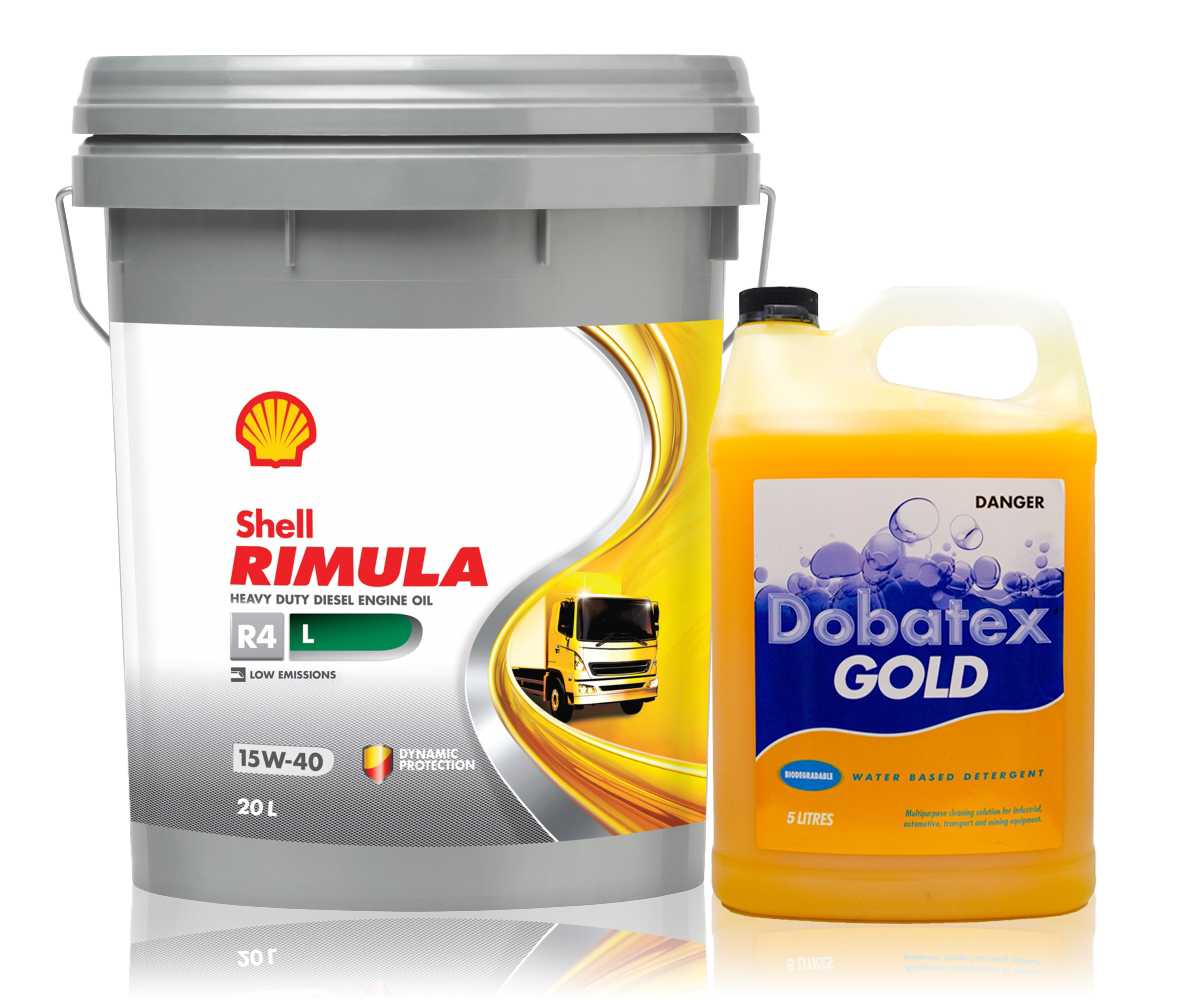
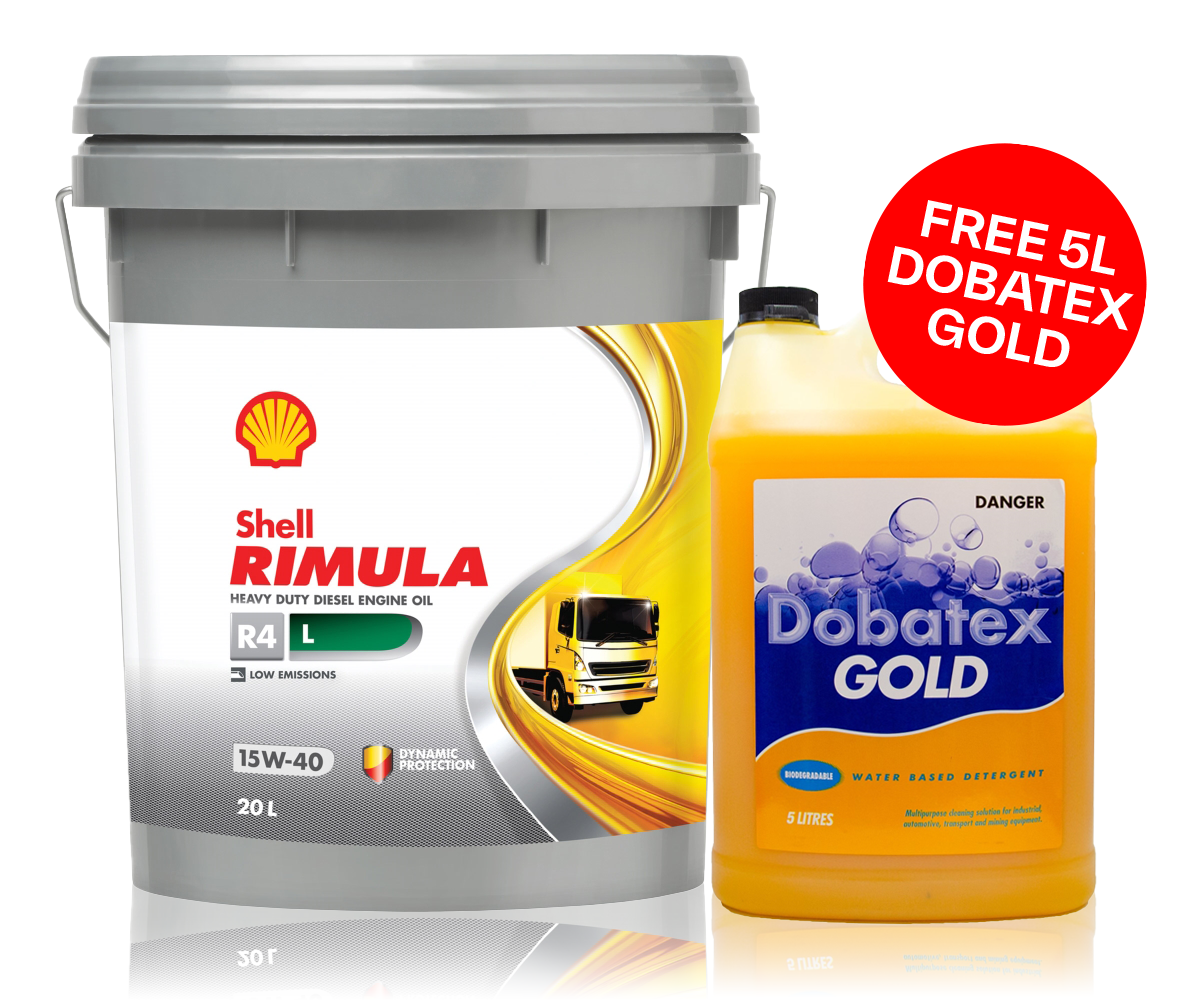
deal edits

Changed region(s): [[0.7092, 0.124, 0.9558, 0.434]]

diff --git a/html/truck-and-driver-offer.html b/html/truck-and-driver-offer.html
@@ -541,7 +541,8 @@
                                 <span class="content-spacer h10"></span>
     
                                 <h1 class="larger">NZ Truck &amp; Driver<br class="d"> <span class="brandColor">Exclusive Deal</span></h1>
-    
+                                <span class="content-spacer h10"></span>
+
                                 
                             </section>
                         </div>     
@@ -550,18 +551,24 @@
                 
             </div>
 
-            <img src="/images/2025/truck-and-driver/truck-driver-bg-mob.jpg">
+
+            <img src="/images/2025/truck-and-driver/products@0.5x.png" class="m" style="width:90%; margin: 0px auto;">
+
+
 
             <div class="scontain ">
                 <section style="position: relative; overflow: hidden;" class="">
                     <div>
                         <div class="scontain noPadTop">
                             <section class="mobAdjust1">
+
+                                <span class="content-spacer h10"></span>
+
                        
                                 <h6 class="balanced">Buy a 20L of Shell Rimula R4L for only $123.52 and receive a 
                                     FREE 5L OF DOBATEX GOLD foaming truck wash valued at $40.</h6>  
                                     <br>
-                                <span class="callout animated infinite pulse">ENDS 31 Mar 2025 OR WHILE STOCKS LAST!</span>
+                                <span class="callout animated infinite pulse">ENDS 31 MARCH 2025 OR WHILE STOCKS LAST!</span>
                            
                             </section>
                         </div>     
@@ -575,7 +582,7 @@
 
 
 
-    <article class="dealPageMasthead picturefill-background d" style="background-size: cover; background-position: center;">
+    <article class="dealPageMasthead  d">
         <div class="scontain ">
             <section style="position: relative; overflow: hidden;" class="">
                 <div>
@@ -594,13 +601,15 @@
 
                             <h1 class="responsiveLarge">NZ Truck &amp; Driver<br class="d"> <span class="brandColor">Exclusive Deal</span></h1>
 
-                            <span class="content-spacer h25"></span>
-                            <span class="content-spacer h20"></span>
+                            <span class="content-spacer h5"></span>
+                            <img src="/images/2025/truck-and-driver/products.png" class="d" style="width:50%; margin: 0px auto;">
+                            <span class="content-spacer h5"></span>
+
 
                             <h6>Buy a 20L of Shell Rimula R4L for only $123.52 and receive a<br> 
                                 FREE 5L OF DOBATEX GOLD foaming truck wash valued at $40.</h6>  
                                 <br>
-                            <span class="callout animated infinite pulse">ENDS 31 Mar 2025 OR WHILE STOCKS LAST!</span>
+                            <span class="callout animated infinite pulse">ENDS 31 MARCH 2025 OR WHILE STOCKS LAST!</span>
                          
                             <span class="content-spacer h15"></span>
                             
@@ -610,7 +619,6 @@
             </section>
             
         </div>
-        <span data-src="/images/2025/truck-and-driver/truck-driver-bg.jpg" data-media="(min-width: 1100px)"></span>
     </article>
 
 
@@ -618,10 +626,7 @@
 
     <article class="dealContent">
 
-        <span class="content-spacer h10"></span>
-        <img src="/images/2025/truck-and-driver/products.png" class="d" style="width:50%; margin: 0px auto;">
-        <img src="/images/2025/truck-and-driver/products@0.5x.png" class="m" style="width:90%; margin: 0px auto;">
-
+      
         <span class="content-spacer h5 m"></span>
 
         <div class="scontain  noPadTop">
@@ -652,7 +657,7 @@
                   
 <p>Multi-Purpose Convenience: Effectively removes dirt, grease, and grime from all hard surfaces, including vertical surfaces, thanks to its stable foaming action that enhances penetration for a deeper clean. </p>
                  
-<p>Surface Safe &amp; Rust Resistant: Won't promote rust or damage paintwork, polished surfaces, metal, or glass. Its strong coloring ensures easy identification even at low dilution levels, and it performs well even with poor water quality. </p>
+<p>Surface Safe &amp; Rust Resistant: Won't promote rust or damage paintwork, polished surfaces, metal, or glass. Its strong colouring ensures easy identification even at low dilution levels, and it performs well even with poor water quality. </p>
                  
 <p>Powerful Cleaning Performance: Highly effective against a wide range of dirt, oils, and grease in both soft and hard water.</p>
                   
@@ -679,7 +684,10 @@
     <div class="header">
         <h1 class="large">Interested?</h1>
         <br>
+        <h3 class="balanced">Complete the form below to purchase a 20L <span class="nowrap">Shell Rimula R4L</span> and we will send you a FREE 5L of Dobatex Gold.</h3>
         <br>
+        <br>
+
 
         
         <h6 class="brandColor">Terms &amp; Conditions</h6>
